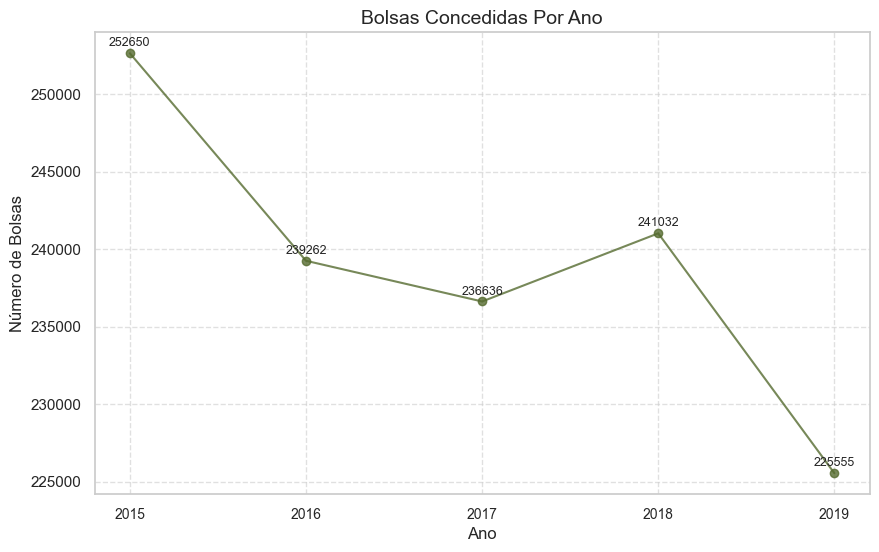
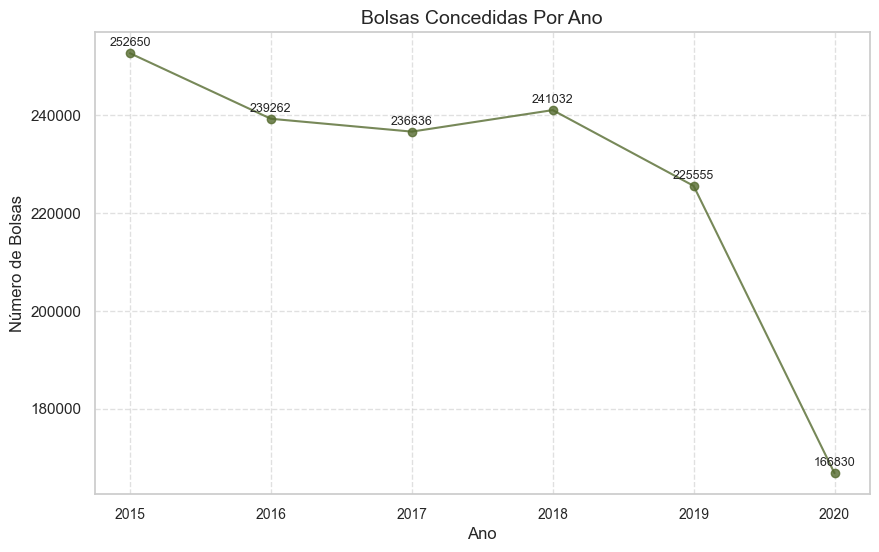
ajuste grafico para pegar 2020

diff --git a/analise_prouni.py b/analise_prouni.py
@@ -1,3 +1,4 @@
+#%%
 import psycopg2
 import pandas as pd
 import matplotlib.pyplot as plt
@@ -206,7 +207,7 @@ bolsas_ano = df['ANO_CONCESSAO'].value_counts().reset_index().sort_values(by="AN
 bolsas_ano.columns = ['Ano', 'Bolsas']
 df_bolsas_ano = pd.DataFrame(bolsas_ano)
 
-anos_completos = range(2015, 2020)
+anos_completos = range(2015, 2021)
 df_bolsas_ano = df_bolsas_ano.set_index('Ano').reindex(anos_completos, fill_value=0).reset_index()
 
 
@@ -256,6 +257,6 @@ plt.ylabel('Número de Bolsas', fontsize=12)
 plt.title('Distribuição de Bolsas por Modalidade e Ano', fontsize=14)
 plt.xticks(index, rotation=45, fontsize=10)
 plt.legend(fontsize=10)
-
 plt.tight_layout()
 plt.show()
+#%%
